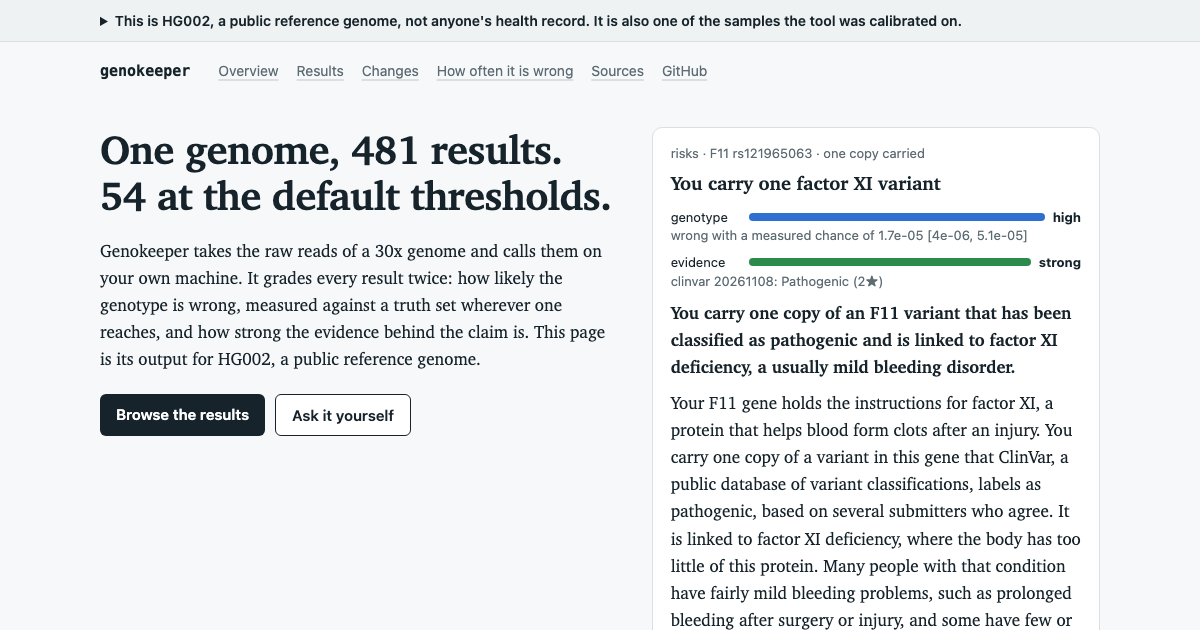
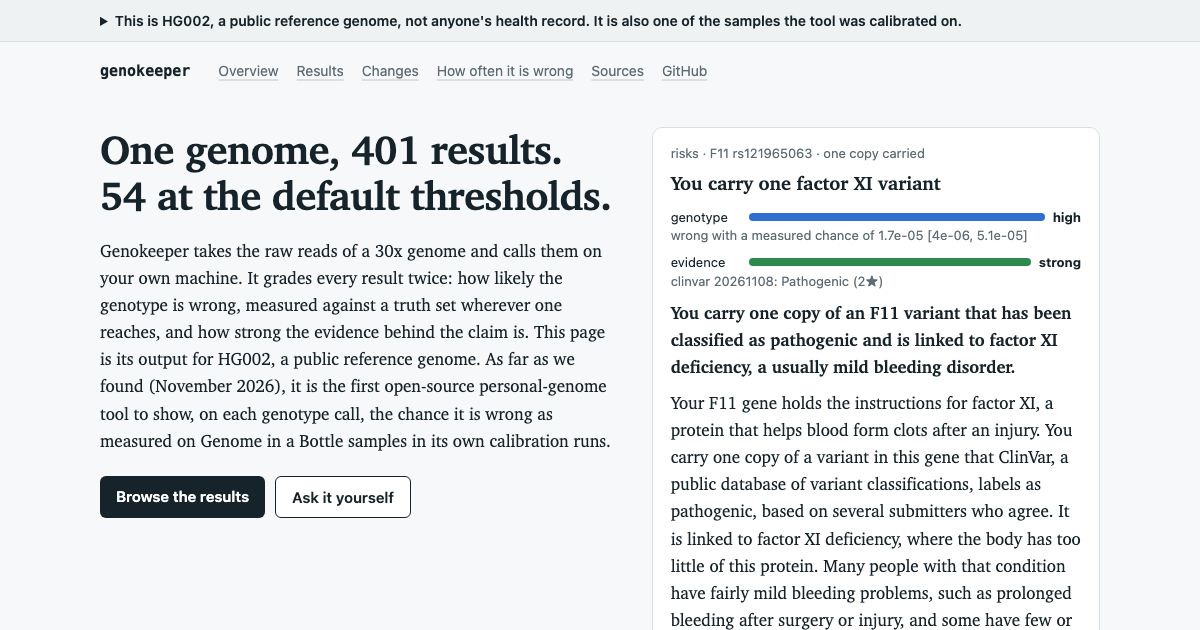
docs(demo): the share card, the README shots and its count from the hg002-0.2.1 demo (401 results)

Changed region(s): [[0.0617, 0.5429, 0.5242, 0.7238], [0.0617, 0.754, 0.3392, 0.8444], [0.3083, 0.2111, 0.3392, 0.2714]]

diff --git a/README.md b/README.md
@@ -89,7 +89,7 @@ weak evidence. Each finding carries two measures:
 
 **The HG002 demo.** The same pipeline run on GIAB's HG002, a public reference genome, is at
 [genokeeper.github.io/genokeeper](https://genokeeper.github.io/genokeeper/). In the matrix's
-loosest cell, any genotype and any evidence, HG002 has 481 results; at the default thresholds,
+loosest cell, any genotype and any evidence, HG002 has 401 results; at the default thresholds,
 54 remain, and 5 at high reliability and strong evidence. The site shows what a newer ClinVar
 release changed and how often each kind of call is wrong, with the samples it was measured on.
 `uvx genokeeper demo` (macOS or Linux) puts the same store in a folder you can ask questions
